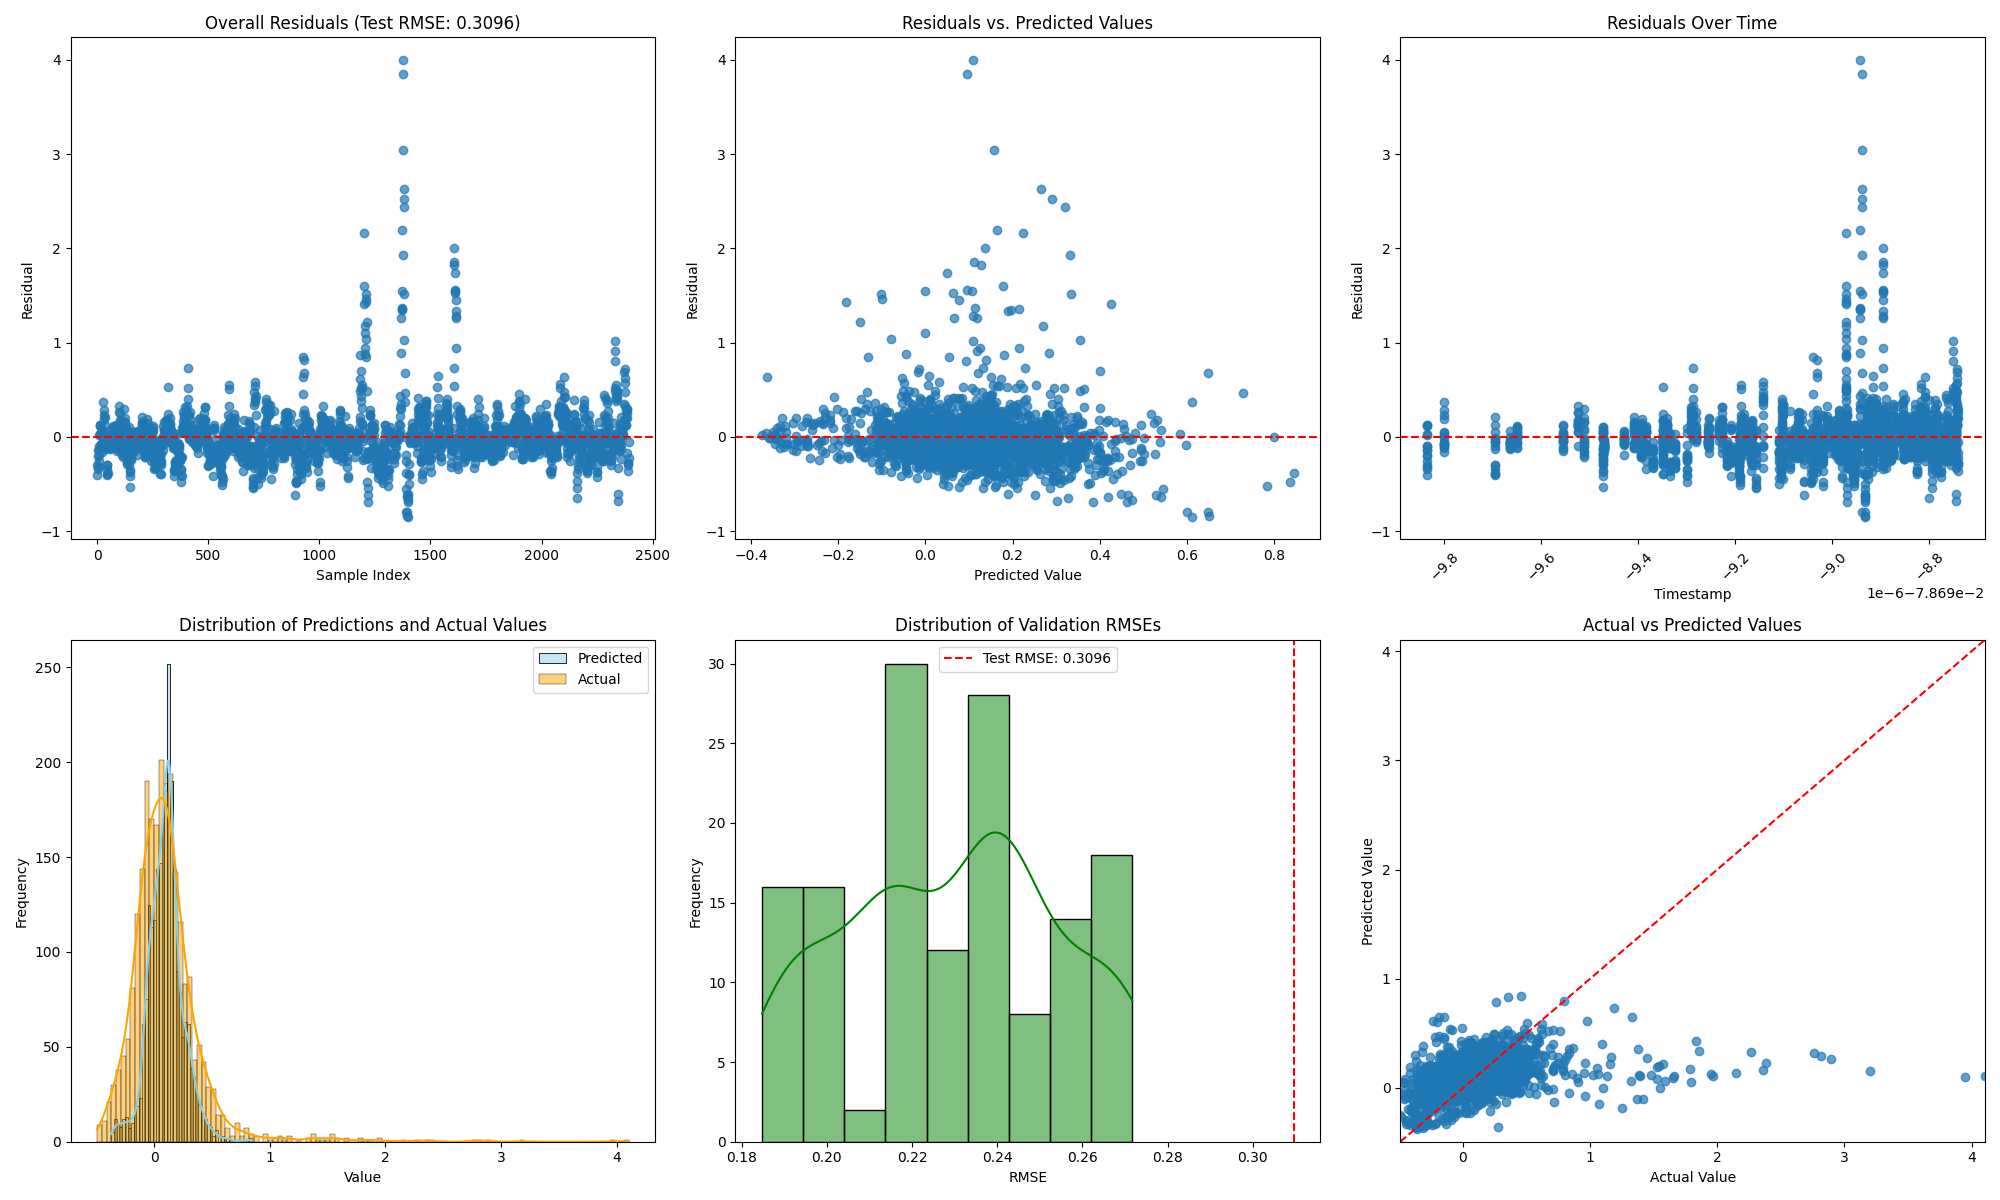
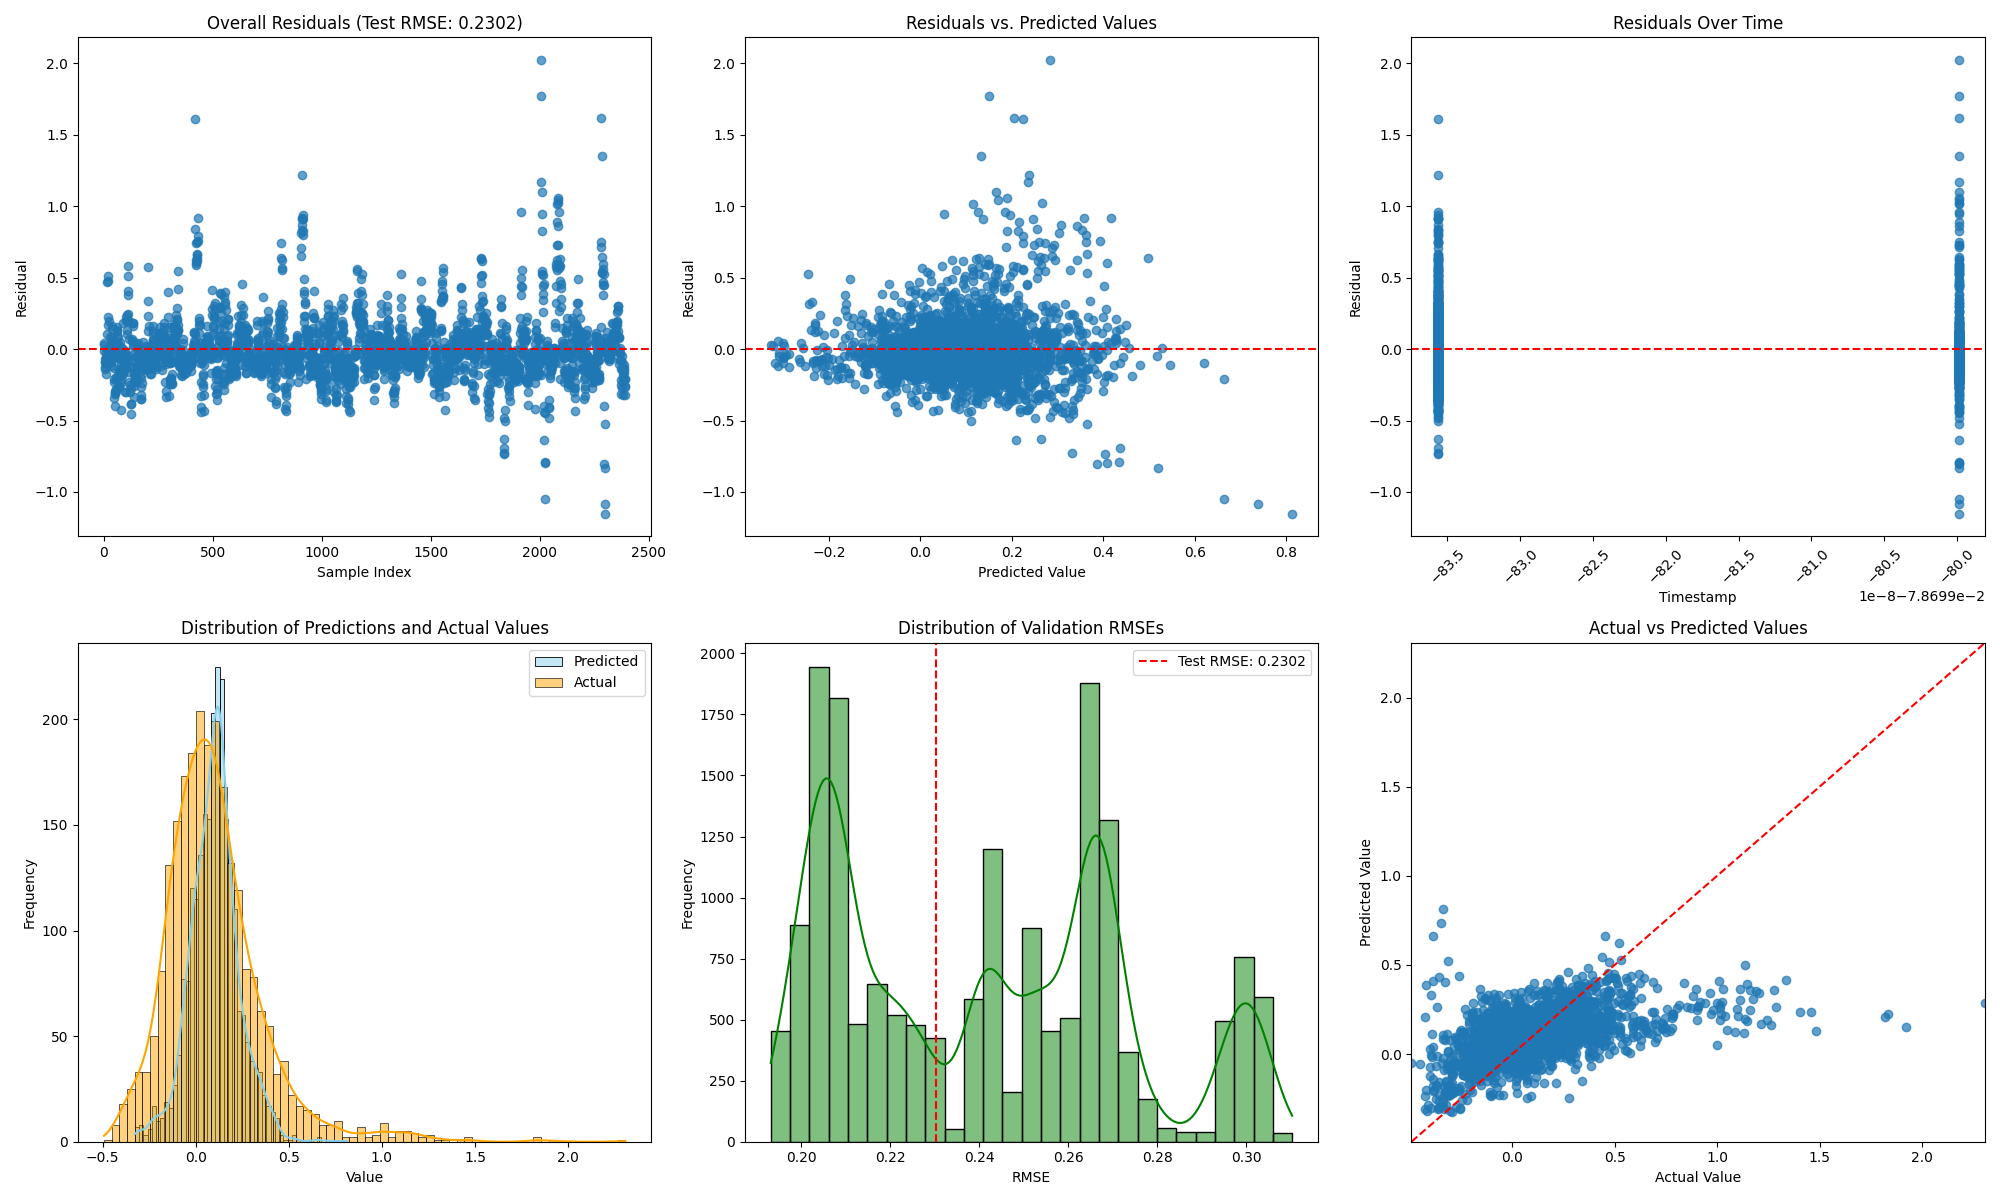
modal

diff --git a/modal_xgboost_tsxval.py b/modal_xgboost_tsxval.py
@@ -17,7 +17,26 @@ from preprocessing import select_features_vif_polars
 from data import load_data
 
 import matplotlib.pyplot as plt
-import seaborn as sns  
+import seaborn as sns
+
+import modal
+
+app = modal.App(name="xgboost-tsxval")
+
+image = modal.Image.debian_slim() \
+            .apt_install('curl') \
+            .run_commands("curl --proto '=https' --tlsv1.2 -sSf https://sh.rustup.rs | sh -s -- -y") \
+            .pip_install(
+                            "torch",
+                            "scikit-learn",
+                            "scipy",
+                            "polars",
+                            "pyarrow",
+                            "xgboost",
+                            "statsmodels",
+                            "matplotlib",
+                            "seaborn"                      
+                        )   
 
 def plot_residuals_predictions_and_rmse_distribution(y_test, y_test_pred, test_rmse, val_rmses, predictions_df):
     """
@@ -193,6 +212,7 @@ def load_and_preprocess_data():
     
     return data.to_numpy(), scaler, poly_transform, selected_features
 
+@app.function(image=image, gpu="T4")
 def train_and_evaluate(args):
     import torch
     import logging
@@ -311,7 +331,7 @@ def time_series_walk_forward_cv_xgboost_parallel(features, target, model_params,
         X_val_fold = X_train_val[start_val:end_val]
         y_val_fold = y_train_val[start_val:end_val]
 
-        num_samples = 480 * 4
+        num_samples = 480
         if len(hyperparameter_combinations) < num_samples:
             sampled_combinations = hyperparameter_combinations
         else:
@@ -322,185 +342,187 @@ def time_series_walk_forward_cv_xgboost_parallel(features, target, model_params,
             args_list.append((hyperparams, fold_idx, X_train_fold, y_train_fold, 
                             X_val_fold, y_val_fold, model_params, start_time_fold, scaler))
     
-    if __name__ == '__main__':
-        multiprocessing.set_start_method('spawn')
 
-        with multiprocessing.Pool() as pool:
-            logging.info("Starting parallel processing of folds")
-            results = pool.map(train_and_evaluate, args_list)
+    multiprocessing.set_start_method('spawn')
 
-        logging.info("Processing results from all folds")
-        for val_rmse, hyperparams, fold_idx, duration, predictions in results:
-            val_rmses.append(val_rmse)
-            all_predictions.extend(predictions)
+    # with multiprocessing.Pool() as pool:
+    #     logging.info("Starting parallel processing of folds")
+    #     results = pool.map(train_and_evaluate, args_list)
+    results = train_and_evaluate.map(args_list)
 
-            # if val_rmse < best_val_rmse:
-            #     best_val_rmse = val_rmse
-            #     best_model_params = hyperparams
-            #     logging.info(f"New best model found! RMSE: {best_val_rmse:.4f}")
-            #     logging.info(f"Best hyperparameters: {best_model_params}")
+    logging.info("Processing results from all folds")
+    for val_rmse, hyperparams, fold_idx, duration, predictions in results:
+        val_rmses.append(val_rmse)
+        all_predictions.extend(predictions)
 
-                # Convert hyperparams to a tuple for dictionary key
-            hyperparams_tuple = tuple(sorted(hyperparams.items()))
+        # if val_rmse < best_val_rmse:
+        #     best_val_rmse = val_rmse
+        #     best_model_params = hyperparams
+        #     logging.info(f"New best model found! RMSE: {best_val_rmse:.4f}")
+        #     logging.info(f"Best hyperparameters: {best_model_params}")
 
-            if hyperparams_tuple not in rmse_by_hyperparams:
-                rmse_by_hyperparams[hyperparams_tuple] = []
-            rmse_by_hyperparams[hyperparams_tuple].append(val_rmse)
+            # Convert hyperparams to a tuple for dictionary key
+        hyperparams_tuple = tuple(sorted(hyperparams.items()))
+
+        if hyperparams_tuple not in rmse_by_hyperparams:
+            rmse_by_hyperparams[hyperparams_tuple] = []
+        rmse_by_hyperparams[hyperparams_tuple].append(val_rmse)
 
 
-            print(f"Fold {fold_idx+1}, Hyperparams: {hyperparams}, Val RMSE: {val_rmse:.4f}, Time: {duration:.2f}s")
+        print(f"Fold {fold_idx+1}, Hyperparams: {hyperparams}, Val RMSE: {val_rmse:.4f}, Time: {duration:.2f}s")
 
-        # Create predictions DataFrame and sort by timestamp
-        predictions_df = pl.DataFrame(all_predictions)
-        predictions_df = predictions_df.sort("timestamp")
+    # Create predictions DataFrame and sort by timestamp
+    predictions_df = pl.DataFrame(all_predictions)
+    predictions_df = predictions_df.sort("timestamp")
+    
+    print("\nLatest Validation Predictions:")
+    print(predictions_df.tail(10))
+
+    avg_rmse_by_hyperparams = {}
+    for hyperparams_tuple, rmses in rmse_by_hyperparams.items():
+        avg_rmse_by_hyperparams[hyperparams_tuple] = np.mean(rmses)
+
+    best_hyperparams_tuple = min(avg_rmse_by_hyperparams, key=avg_rmse_by_hyperparams.get)
+    best_model_params = dict(best_hyperparams_tuple) # Convert back to dictionary
+    best_val_rmse = avg_rmse_by_hyperparams[best_hyperparams_tuple]
+    logging.info(f"Best average RMSE: {best_val_rmse:.4f}")
+    logging.info(f"Best hyperparameters: {best_model_params}")
+
+    # Train final model on all data except test set
+    logging.info("Training final model with best hyperparameters")
+    final_model_params = model_params.copy()
+    final_model_params.update(best_model_params)
+    final_model_params['early_stopping_rounds'] = 10
+
+    final_model = xgb.XGBRegressor(**final_model_params)
+
+    # Scale the entire training data
+    X_train_val_scaled = scaler.transform(X_train_val)
+    X_train_val_scaled = torch.tensor(X_train_val_scaled, dtype=torch.float32, device='cuda')
+
+    # Ensure y_train_val is of type float32
+    y_train_val = y_train_val.astype(np.float32)
+    y_train_val = torch.tensor(y_train_val, dtype=torch.float32, device='cuda')
+
+    # Split the training data into training and validation sets
+    split_idx = int(0.8 * len(X_train_val_scaled)) 
+    X_train_final = X_train_val_scaled[:split_idx]
+    y_train_final = y_train_val[:split_idx]
+    X_val_final = X_train_val_scaled[split_idx:]
+    y_val_final = y_train_val[split_idx:]
+
+    # Train the final model with early stopping
+    final_model.fit(
+        X_train_final.cpu().numpy(), y_train_final.cpu().numpy(),
+        eval_set=[(X_val_final.cpu().numpy(), y_val_final.cpu().numpy())],
+        verbose=False
+    )
+    
+    # Save the model
+    timestamp = datetime.now().strftime("%Y%m%d_%H%M%S")
+    model_dir = "models"
+    if not os.path.exists(model_dir):
+        os.makedirs(model_dir)
         
-        print("\nLatest Validation Predictions:")
-        print(predictions_df.tail(10))
+    model_path = os.path.join(model_dir, f"xgboost_model_{timestamp}.json")
+    final_model.save_model(model_path)
+    logging.info(f"Saved model to {model_path}")
+    
+    # Make predictions on test set
+    logging.info("Making predictions on test set")
+    X_test_scaled = scaler.transform(X_test)
+    X_test_scaled = torch.tensor(X_test_scaled, dtype=torch.float32, device='cuda')
+    y_test_pred = final_model.predict(X_test_scaled.cpu().numpy())
+    y_test_pred = torch.tensor(y_test_pred, dtype=torch.float32, device='cuda')
+    test_rmse = np.sqrt(mean_squared_error(y_test, y_test_pred.cpu().numpy()))
+    test_r2 = r2_score(y_test, y_test_pred.cpu().numpy())
+    
+    logging.info(f"Final Test Set RMSE: {test_rmse:.4f}")
+    logging.info(f"Final Test Set R²: {test_r2:.4f}")
+    
+    # Load the current data for final predictions
+    from data import load_data
+    current_data = load_data(for_training=False) 
 
-        avg_rmse_by_hyperparams = {}
-        for hyperparams_tuple, rmses in rmse_by_hyperparams.items():
-            avg_rmse_by_hyperparams[hyperparams_tuple] = np.mean(rmses)
 
-        best_hyperparams_tuple = min(avg_rmse_by_hyperparams, key=avg_rmse_by_hyperparams.get)
-        best_model_params = dict(best_hyperparams_tuple) # Convert back to dictionary
-        best_val_rmse = avg_rmse_by_hyperparams[best_hyperparams_tuple]
-        logging.info(f"Best average RMSE: {best_val_rmse:.4f}")
-        logging.info(f"Best hyperparameters: {best_model_params}")
+    # Define X_current by selecting relevant features from current_data
+    X_current = current_data.select([
+                                        "timestamp", "coin",
+                                        "return_1d", "return_3d", "return_5d", "return_7d", "return_14d", "return_30d",
+                                        "return_std_3d", "return_std_5d", "return_std_7d", "return_std_14d", "return_std_30d",
+                                        #'vwma_3d', 'vwma_3d_dist', 'vwma_5d', 'vwma_5d_dist', 'vwma_7d', 'vwma_7d_dist', 'vwma_14d', 'vwma_14d_dist', 'vwma_30d', 'vwma_30d_dist',
+                                        "coin_volume_bs_ratio", "trades_bs_ratio", "total_coin_volume", "total_trades"
+                                    ])
+    X_current = X_current.drop_nulls()
 
-        # Train final model on all data except test set
-        logging.info("Training final model with best hyperparameters")
-        final_model_params = model_params.copy()
-        final_model_params.update(best_model_params)
-        final_model_params['early_stopping_rounds'] = 10
+    # Get the coin identifiers
+    current_coins = X_current["coin"].to_numpy()
+    X_current = X_current.drop("coin")
 
-        final_model = xgb.XGBRegressor(**final_model_params)
+    # Log the columns of X_current
+    logging.info(f"Selected features: {selected_features}")
+    logging.info(f"X_current columns: {X_current.columns}")
 
-        # Scale the entire training data
-        X_train_val_scaled = scaler.transform(X_train_val)
-        X_train_val_scaled = torch.tensor(X_train_val_scaled, dtype=torch.float32, device='cuda')
+    # Ensure all selected features are present in X_current
+    missing_features = [col for col in selected_features if col not in X_current.columns]
+    if missing_features:
+        logging.warning(f"Missing features in X_current: {missing_features}")
+        # Add missing features with default values (e.g., 0)
+        for feature in missing_features:
+            print(f"feature: {feature} missing")
+            exit()
 
-        # Ensure y_train_val is of type float32
-        y_train_val = y_train_val.astype(np.float32)
-        y_train_val = torch.tensor(y_train_val, dtype=torch.float32, device='cuda')
+    # Filter features using selected_features
+    X_current_selected = X_current.select(selected_features)
 
-        # Split the training data into training and validation sets
-        split_idx = int(0.8 * len(X_train_val_scaled)) 
-        X_train_final = X_train_val_scaled[:split_idx]
-        y_train_final = y_train_val[:split_idx]
-        X_val_final = X_train_val_scaled[split_idx:]
-        y_val_final = y_train_val[split_idx:]
+    # Exclude 'timestamp' from transformations
+    features_for_transform = [col for col in selected_features if col != 'timestamp']
+    X_current_features = X_current_selected.select(features_for_transform).to_numpy()
+    
+    # Apply polynomial features using the same poly_transform object
+    X_current_poly = poly_transform.transform(X_current_features)
 
-        # Train the final model with early stopping
-        final_model.fit(
-            X_train_final.cpu().numpy(), y_train_final.cpu().numpy(),
-            eval_set=[(X_val_final.cpu().numpy(), y_val_final.cpu().numpy())],
-            verbose=False
-        )
-        
-        # Save the model
-        timestamp = datetime.now().strftime("%Y%m%d_%H%M%S")
-        model_dir = "models"
-        if not os.path.exists(model_dir):
-            os.makedirs(model_dir)
-            
-        model_path = os.path.join(model_dir, f"xgboost_model_{timestamp}.json")
-        final_model.save_model(model_path)
-        logging.info(f"Saved model to {model_path}")
-        
-        # Make predictions on test set
-        logging.info("Making predictions on test set")
-        X_test_scaled = scaler.transform(X_test)
-        X_test_scaled = torch.tensor(X_test_scaled, dtype=torch.float32, device='cuda')
-        y_test_pred = final_model.predict(X_test_scaled.cpu().numpy())
-        y_test_pred = torch.tensor(y_test_pred, dtype=torch.float32, device='cuda')
-        test_rmse = np.sqrt(mean_squared_error(y_test, y_test_pred.cpu().numpy()))
-        test_r2 = r2_score(y_test, y_test_pred.cpu().numpy())
-        
-        logging.info(f"Final Test Set RMSE: {test_rmse:.4f}")
-        logging.info(f"Final Test Set R²: {test_r2:.4f}")
-        
-        # Load the current data for final predictions
-        from data import load_data
-        current_data = load_data(for_training=False) 
-  
+    # Scale the features using the same scaler object
+    X_current_scaled = scaler.transform(X_current_poly)
 
-        # Define X_current by selecting relevant features from current_data
-        X_current = current_data.select([
-                                            "timestamp", "coin",
-                                            "return_1d", "return_3d", "return_5d", "return_7d", "return_14d", "return_30d",
-                                            "return_std_3d", "return_std_5d", "return_std_7d", "return_std_14d", "return_std_30d",
-                                            #'vwma_3d', 'vwma_3d_dist', 'vwma_5d', 'vwma_5d_dist', 'vwma_7d', 'vwma_7d_dist', 'vwma_14d', 'vwma_14d_dist', 'vwma_30d', 'vwma_30d_dist',
-                                            "coin_volume_bs_ratio", "trades_bs_ratio", "total_coin_volume", "total_trades"
-                                        ])
-        X_current = X_current.drop_nulls()
+    # Combine scaled features with timestamp
+    X_current_timestamp = X_current_selected.select("timestamp").to_numpy()
+    X_current_processed = np.hstack([X_current_scaled, X_current_timestamp])
 
-        # Get the coin identifiers
-        current_coins = X_current["coin"].to_numpy()
-        X_current = X_current.drop("coin")
+    # Make predictions on the current data (drop 'timestamp' before prediction)
+    X_current_final = X_current_processed[:, :-1] 
+    y_current_pred = final_model.predict(X_current_final)
+    
+    print(y_current_pred.shape)
+    # Create current predictions DataFrame
+    current_predictions = {
+        'timestamp': X_current_timestamp.flatten(),
+        'coin': current_coins,  
+        'predicted_future_return_14d': y_current_pred  
+    }
 
-        # Log the columns of X_current
-        logging.info(f"Selected features: {selected_features}")
-        logging.info(f"X_current columns: {X_current.columns}")
+    # Convert to Polars DataFrame
+    current_predictions_df = pl.DataFrame(current_predictions)
 
-        # Ensure all selected features are present in X_current
-        missing_features = [col for col in selected_features if col not in X_current.columns]
-        if missing_features:
-            logging.warning(f"Missing features in X_current: {missing_features}")
-            # Add missing features with default values (e.g., 0)
-            for feature in missing_features:
-                print(f"feature: {feature} missing")
-                exit()
+    # Get only most current predictions of most recent timestamp
+    current_predictions_df = current_predictions_df.filter(pl.col("timestamp") == current_predictions_df["timestamp"].max())
 
-        # Filter features using selected_features
-        X_current_selected = X_current.select(selected_features)
+    # Sort by predicted_future_return_14d (descending order)
+    current_predictions_df = current_predictions_df.sort("predicted_future_return_14d", descending=True)
 
-        # Exclude 'timestamp' from transformations
-        features_for_transform = [col for col in selected_features if col != 'timestamp']
-        X_current_features = X_current_selected.select(features_for_transform).to_numpy()
-        
-        # Apply polynomial features using the same poly_transform object
-        X_current_poly = poly_transform.transform(X_current_features)
+    print("\nCurrent Predictions Sorted by Predicted (Descending):")
+    print(current_predictions_df.head(20))
+    
+    logging.info("Validation complete!")
 
-        # Scale the features using the same scaler object
-        X_current_scaled = scaler.transform(X_current_poly)
+    y_test_pred = y_test_pred.cpu().numpy()  # If y_test_pred is a tensor
 
-        # Combine scaled features with timestamp
-        X_current_timestamp = X_current_selected.select("timestamp").to_numpy()
-        X_current_processed = np.hstack([X_current_scaled, X_current_timestamp])
+    plot_residuals_predictions_and_rmse_distribution(y_test, y_test_pred, test_rmse, val_rmses, predictions_df)
 
-        # Make predictions on the current data (drop 'timestamp' before prediction)
-        X_current_final = X_current_processed[:, :-1] 
-        y_current_pred = final_model.predict(X_current_final)
-        
-        print(y_current_pred.shape)
-        # Create current predictions DataFrame
-        current_predictions = {
-            'timestamp': X_current_timestamp.flatten(),
-            'coin': current_coins,  
-            'predicted_future_return_14d': y_current_pred  
-        }
+    return final_model, test_rmse, best_model_params, predictions_df, current_predictions_df
 
-        # Convert to Polars DataFrame
-        current_predictions_df = pl.DataFrame(current_predictions)
-
-        # Get only most current predictions of most recent timestamp
-        current_predictions_df = current_predictions_df.filter(pl.col("timestamp") == current_predictions_df["timestamp"].max())
-
-        # Sort by predicted_future_return_14d (descending order)
-        current_predictions_df = current_predictions_df.sort("predicted_future_return_14d", descending=True)
-
-        print("\nCurrent Predictions Sorted by Predicted (Descending):")
-        print(current_predictions_df.head(20))
-        
-        logging.info("Validation complete!")
-
-        y_test_pred = y_test_pred.cpu().numpy()  # If y_test_pred is a tensor
-
-        plot_residuals_predictions_and_rmse_distribution(y_test, y_test_pred, test_rmse, val_rmses, predictions_df)
-
-        return final_model, test_rmse, best_model_params, predictions_df, current_predictions_df
-        
-if __name__ == '__main__':
+@app.local_entrypoint()    
+def main():
     # Load and preprocess the data
     data_np, scaler, poly_transform, selected_features = load_and_preprocess_data()
 
